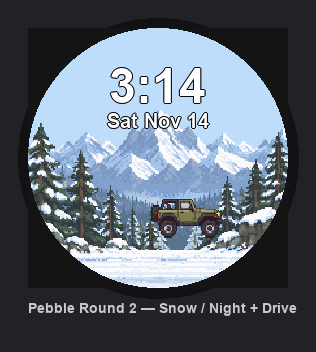
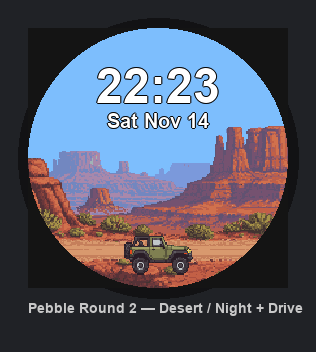
Fix Round 2 tiling by shipping native 260x260 assets and 1:1 blits.
graphics_draw_bitmap_in_rect tiles when the dest rect is larger than the bitmap; never scale at draw time.

diff --git a/src/c/main.c b/src/c/main.c
@@ -5,8 +5,16 @@
 #define NUM_SCENES 7
 #define NUM_JEEP_FRAMES 4
 #define TERRAIN_SAMPLES 25
+/* Terrain tables are authored against the 200x228 emery art. */
+#define TERRAIN_SRC_W 200
+#define TERRAIN_SRC_H 228
+#ifdef PBL_ROUND
+#define JEEP_W 80
+#define JEEP_H 52
+#else
 #define JEEP_W 64
 #define JEEP_H 40
+#endif
 #define DRIVE_TICK_MS 80
 #define PERSIST_SETTINGS 1
 #define PERSIST_LAST_DRIVE_HOUR 2
@@ -51,10 +59,8 @@ static AppTimer *s_drive_timer;
 static int s_last_drive_hour = -1;
 static int s_bounds_w;
 static int s_bounds_h;
-/* Where the 200x228 scene is drawn (may be larger than the screen on round). */
+/* Exact on-screen rect used for the scene bitmap (1:1 blit, never scaled). */
 static GRect s_scene_dest;
-#define SCENE_ASSET_W 200
-#define SCENE_ASSET_H 228
 
 /* Terrain Y (road surface) sampled across asset width 200, for each scene. */
 static const uint8_t s_terrain[NUM_SCENES][TERRAIN_SAMPLES] = {
@@ -155,22 +161,18 @@ static void ensure_scene_loaded(int scene) {
   s_loaded_scene = scene;
 }
 
-/* Cover-scale 200x228 art into the display (fills round screens with no letterbox). */
-static GRect scene_dest_for_bounds(GRect bounds) {
-#ifdef PBL_ROUND
-  /* scale = max(bounds.w/200, bounds.h/228) using integer math */
-  int scale_w = (bounds.size.w * 1000) / SCENE_ASSET_W;
-  int scale_h = (bounds.size.h * 1000) / SCENE_ASSET_H;
-  int scale = scale_w > scale_h ? scale_w : scale_h;
-  int draw_w = (SCENE_ASSET_W * scale) / 1000;
-  int draw_h = (SCENE_ASSET_H * scale) / 1000;
-  /* Guarantees full cover even with rounding */
-  if (draw_w < bounds.size.w) draw_w = bounds.size.w;
-  if (draw_h < bounds.size.h) draw_h = bounds.size.h;
-  return GRect((bounds.size.w - draw_w) / 2, (bounds.size.h - draw_h) / 2, draw_w, draw_h);
-#else
-  return bounds;
-#endif
+/*
+ * Pebble does NOT scale bitmaps in graphics_draw_bitmap_in_rect — a larger
+ * dest rect tiles. Always blit 1:1 using the bitmap's native size.
+ */
+static GRect scene_dest_for_bitmap(GRect bounds, GBitmap *bmp) {
+  if (!bmp) {
+    return bounds;
+  }
+  GRect b = gbitmap_get_bounds(bmp);
+  int ox = (bounds.size.w - b.size.w) / 2;
+  int oy = (bounds.size.h - b.size.h) / 2;
+  return GRect(ox, oy, b.size.w, b.size.h);
 }
 
 static int terrain_y_at(int scene, int x) {
@@ -178,24 +180,23 @@ static int terrain_y_at(int scene, int x) {
   if (dest.size.w <= 1) {
     return s_bounds_h * 3 / 4;
   }
-  /* Map screen X into asset X via the scene dest rect. */
   int local_x = x - dest.origin.x;
   if (local_x < 0) local_x = 0;
   if (local_x >= dest.size.w) local_x = dest.size.w - 1;
-  int asset_x = (local_x * (SCENE_ASSET_W - 1)) / (dest.size.w > 1 ? dest.size.w - 1 : 1);
-  if (asset_x < 0) asset_x = 0;
-  if (asset_x > SCENE_ASSET_W - 1) asset_x = SCENE_ASSET_W - 1;
 
-  int idx = (asset_x * (TERRAIN_SAMPLES - 1)) / (SCENE_ASSET_W - 1);
+  /* Terrain samples are in original 200px-wide space. */
+  int src_x = (local_x * (TERRAIN_SRC_W - 1)) / (dest.size.w > 1 ? dest.size.w - 1 : 1);
+  int idx = (src_x * (TERRAIN_SAMPLES - 1)) / (TERRAIN_SRC_W - 1);
   int next = idx + 1;
   if (next >= TERRAIN_SAMPLES) next = TERRAIN_SAMPLES - 1;
-  int span = SCENE_ASSET_W - 1;
-  int frac = (asset_x * (TERRAIN_SAMPLES - 1)) % (span > 0 ? span : 1);
+  int span = TERRAIN_SRC_W - 1;
+  int frac = (src_x * (TERRAIN_SAMPLES - 1)) % (span > 0 ? span : 1);
   int y0 = s_terrain[scene][idx];
   int y1 = s_terrain[scene][next];
-  int asset_y = y0 + ((y1 - y0) * frac) / (span > 0 ? span : 1);
+  int src_y = y0 + ((y1 - y0) * frac) / (span > 0 ? span : 1);
 
-  return dest.origin.y + (asset_y * dest.size.h) / SCENE_ASSET_H;
+  /* Map 228-tall source samples onto the drawn scene height. */
+  return dest.origin.y + (src_y * dest.size.h) / TERRAIN_SRC_H;
 }
 
 static void draw_sky_overlay(GContext *ctx, GRect bounds, TimeOfDay tod) {
@@ -270,31 +271,23 @@ static void canvas_update(Layer *layer, GContext *ctx) {
 
   ensure_scene_loaded(scene);
 
-  s_scene_dest = scene_dest_for_bounds(bounds);
+  s_scene_dest = scene_dest_for_bitmap(bounds, s_scene_bitmap);
 
-  /* Match letterbox leftover to sky so round never shows black bars. */
-  GColor fill = GColorBlack;
-  if (tod == TOD_MORNING) fill = GColorPictonBlue;
-  else if (tod == TOD_DAY) fill = GColorPictonBlue;
-  else if (tod == TOD_EVENING) fill = GColorOxfordBlue;
-  graphics_context_set_fill_color(ctx, fill);
+  graphics_context_set_fill_color(ctx, GColorBlack);
   graphics_fill_rect(ctx, bounds, 0, GCornerNone);
 
   if (s_scene_bitmap) {
     graphics_context_set_compositing_mode(ctx, GCompOpSet);
+    /* Dest size MUST equal bitmap size or Pebble will tile. */
     graphics_draw_bitmap_in_rect(ctx, s_scene_bitmap, s_scene_dest);
   }
 
   draw_sky_overlay(ctx, bounds, tod);
 
   if (s_driving && s_jeep_frames[s_jeep_frame % NUM_JEEP_FRAMES]) {
-#ifdef PBL_ROUND
-    int jeep_w = (JEEP_W * s_scene_dest.size.w) / SCENE_ASSET_W;
-    int jeep_h = (JEEP_H * s_scene_dest.size.h) / SCENE_ASSET_H;
-#else
-    int jeep_w = JEEP_W;
-    int jeep_h = JEEP_H;
-#endif
+    GRect jeep_bounds = gbitmap_get_bounds(s_jeep_frames[s_jeep_frame % NUM_JEEP_FRAMES]);
+    int jeep_w = jeep_bounds.size.w;
+    int jeep_h = jeep_bounds.size.h;
     int road = terrain_y_at(scene, s_jeep_x + jeep_w / 2);
     int jeep_y = road - jeep_h + (jeep_h / 10);
     jeep_y += ((s_jeep_frame % 2) ? 1 : 0);
@@ -359,16 +352,9 @@ static void drive_timer_cb(void *context) {
   s_jeep_frame = (s_jeep_frame + 1) % NUM_JEEP_FRAMES;
   layer_mark_dirty(s_canvas);
 
-  {
-#ifdef PBL_ROUND
-    int jeep_w = (JEEP_W * (s_scene_dest.size.w > 0 ? s_scene_dest.size.w : s_bounds_w)) / SCENE_ASSET_W;
-#else
-    int jeep_w = JEEP_W;
-#endif
-    if (s_jeep_x > s_bounds_w + jeep_w) {
-      s_driving = false;
-      return;
-    }
+  if (s_jeep_x > s_bounds_w + JEEP_W) {
+    s_driving = false;
+    return;
   }
   s_drive_timer = app_timer_register(DRIVE_TICK_MS, drive_timer_cb, NULL);
 }
@@ -388,11 +374,7 @@ static void start_drive(struct tm *t) {
   settings_save();
 
   s_driving = true;
-#ifdef PBL_ROUND
-  s_jeep_x = -((JEEP_W * (s_bounds_w > 0 ? s_bounds_w : 260)) / SCENE_ASSET_W);
-#else
   s_jeep_x = -JEEP_W;
-#endif
   s_jeep_frame = 0;
   if (s_settings.vibrate_on_drive) {
     vibes_short_pulse();
